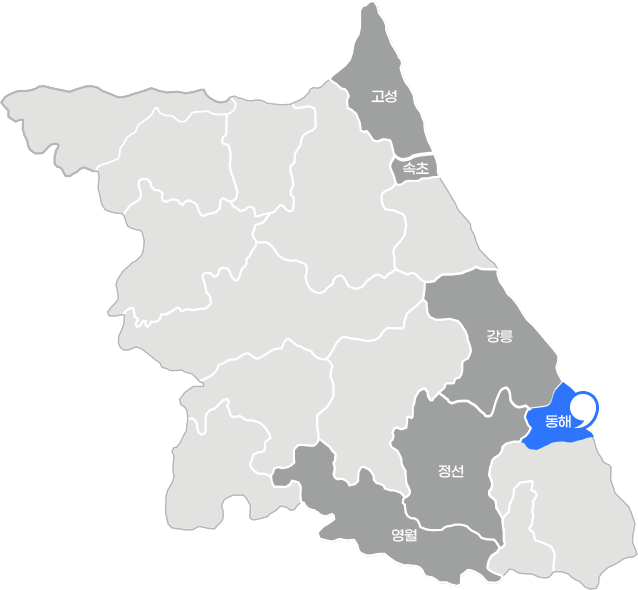
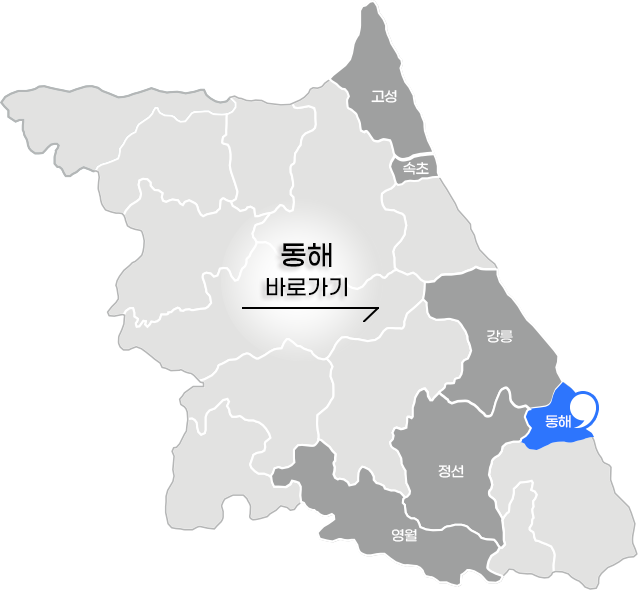
메인 콘텐츠 수정

Changed region(s): [[0.3871, 0.3966, 0.5956, 0.5492]]

diff --git a/worcation/css/sub.css b/worcation/css/sub.css
@@ -459,12 +459,27 @@ a.skinBtnBo i.v6{background-position-x: -765px;}
 .space-fun .space-list .text-bx{padding:15px 0 25px;}
 .space-fun .space-list .text-bx h5{font-size:22px;font-weight:400;}
 .space-fun .space-list .text-bx h5 strong{font-weight:700;}
-.space-fun .space-list .text-bx p{padding:7px 0 0 15px;}
-.space-fun .space-list .text-bx span{display:block;font-weight:300;font-size:17px;padding-top:7px;line-height:1.3;}
+.space-fun .space-list .text-bx p{padding:7px 0 0 15px;font-weight: 300;font-size: 17px;padding-top: 7px;line-height: 1.6;}
+.space-fun .space-list .text-bx span{display:block;}
+
+.space-fun .space-list.v2{padding-bottom:20px;}
+.space-fun .space-list.v2 > div{padding:35px 0 65px;}
+.space-fun .space-list .bg-bx{position:relative;background:#fff;border:1px solid #bfbfbf;padding:25px;display:flex;}
+.space-fun .space-list .bg-bx .img-bx{width:378px;}
+.space-fun .space-list .bg-bx .img-bx img{display:block;width:100%;}
+.space-fun .space-list .bg-bx .text-bx{display:flex;flex-direction:column;justify-content:space-between;padding:0 25px 0 0;flex:1;}
+.space-fun .space-list .bg-bx h5{font-size:24px;font-weight:300;line-height:1.2;word-break:keep-all;}
+.space-fun .space-list .bg-bx h5 strong{display:block;font-weight:700;font-size:30px;margin-top:5px;}
+.space-fun .space-list .bg-bx .text-bx p{padding:0;word-break:keep-all;}
+
 .space-fun .fun-bx{margin-top:23px;display:flex;}
 .space-fun .fun-bx > a{overflow:hidden;width:calc((100% - 1340px) / 3);transition:all .35s .05s ease-out;}
 .space-fun .fun-bx > a.active{width:1340px;pointer-events:none;}
-.space-fun .fun-bx > a img{display:block;}
+.space-fun .fun-bx > a img{display:block;transition:all .2s;}
+.space-fun .fun-bx > a:hover img{filter:grayscale(1);}
+
+
+
 
 @media (max-width: 1599px){
   .program-bx .tit-bx h4{font-size:28px;}
@@ -495,12 +510,24 @@ a.skinBtnBo i.v6{background-position-x: -765px;}
   .space-fun .space-list > div + div{margin-left:30px;}
   .space-fun .space-list .text-bx{padding:12px 0 21px;}
   .space-fun .space-list .text-bx h5{font-size:18px;}
-  .space-fun .space-list .text-bx p{padding:5px 0 0 12px;font-size:15px;}
-  .space-fun .space-list .text-bx span{font-size:14px;padding-top:5px;}
+  .space-fun .space-list .text-bx p{padding:5px 0 0 12px;font-size:14px;}
+  .space-fun .space-list .text-bx span{padding-top:5px;}
   .space-fun .fun-bx{margin:17px -20px 0;}
   .space-fun .fun-bx > a{width:60px;}
   .space-fun .fun-bx > a.active{width:calc(100vw - 180px);}
   .space-fun .fun-bx > a img{max-width:100vw}
+
+  .space-fun .space-list.v2{padding-bottom:10px;}
+  .space-fun .space-list.v2 > div{padding:15px 0 40px;}
+  .space-fun .space-list .bg-bx{padding:15px;flex-direction:column;height:100%;}
+  .space-fun .space-list .bg-bx .img-bx{width:100%;height:180px;}
+  .space-fun .space-list .bg-bx .img-bx img{height:100%;object-fit:cover;}
+  .space-fun .space-list .bg-bx .text-bx{padding:0px 0 15px 0;justify-content:flex-start;}
+  .space-fun .space-list .bg-bx h5{font-size:18px;}
+  .space-fun .space-list .bg-bx h5 strong{font-size:22px;}
+  .space-fun .space-list .bg-bx .text-bx p{padding:0;word-break:keep-all;margin-top:7px;}
+
+  .space-fun .fun-bx > a:hover img{filter:grayscale(0);}
 
 }
 
@@ -532,12 +559,19 @@ a.skinBtnBo i.v6{background-position-x: -765px;}
   .space-fun .space-list > div + div{margin-left:15px;}
   .space-fun .space-list .text-bx{padding:12px 0 21px;}
   .space-fun .space-list .text-bx h5{font-size:15px;}
-  .space-fun .space-list .text-bx p{padding:3px 0 0 10px;font-size:14px;}
-  .space-fun .space-list .text-bx span{font-size:13px;padding-top:4px;}
+  .space-fun .space-list .text-bx p{padding:3px 0 0 10px;font-size:13px;}
+  .space-fun .space-list .text-bx span{padding-top:3px;}
   .space-fun .fun-bx{margin:15px -20px 0;}
   .space-fun .fun-bx > a{width:55px;}
   .space-fun .fun-bx > a.active{width:calc(100vw - 165px);}
   .space-fun .fun-bx > a img{max-width:100vw;min-width:1000px;}
+
+  .space-fun .space-list.v2{padding-bottom:5px;}
+  .space-fun .space-list.v2 > div{padding:15px 0 30px;}
+  .space-fun .space-list .bg-bx .img-bx{height:160px;}
+  .space-fun .space-list .bg-bx .text-bx{padding:0px 0 13px 0;}
+  .space-fun .space-list .bg-bx h5{font-size:15px;}
+  .space-fun .space-list .bg-bx h5 strong{font-size:18px;}
 }
 
 @media (max-width: 716px){
@@ -568,12 +602,18 @@ a.skinBtnBo i.v6{background-position-x: -765px;}
   .space-fun .space-list > div + div{margin:15px 0 0;}
   .space-fun .space-list .text-bx{padding:12px 0 21px;}
   .space-fun .space-list .text-bx h5{font-size:15px;}
-  .space-fun .space-list .text-bx p{padding:3px 0 0 5px;font-size:13.5px;}
-  .space-fun .space-list .text-bx span{font-size:13px;}
+  .space-fun .space-list .text-bx p{padding:3px 0 0 5px;font-size:13px;}
   .space-fun .fun-bx{margin:15px -15px 0;flex-direction:column;}
   .space-fun .fun-bx > a{width:100%;height:50px;transition-duration:.25s;}
   .space-fun .fun-bx > a + a{box-shadow:-3px 0 6px 0 rgba(0,0,0,.35);}
   .space-fun .fun-bx > a.active{width:100%;height:234px}
   .space-fun .fun-bx > a img{width:740px;min-width:740px;}
+
+  .space-fun .space-list.v2{padding-bottom:5px;}
+  .space-fun .space-list.v2 > div{padding:5px 0 20px;}
+  .space-fun .space-list .bg-bx .img-bx{height:135px;}
+  .space-fun .space-list .bg-bx .text-bx{padding:0px 0 12px 0;}
+  .space-fun .space-list .bg-bx h5{font-size:14px;}
+  .space-fun .space-list .bg-bx h5 strong{font-size:16px;}
 }
 

diff --git a/worcation/content/2_워케이션프로그램.html b/worcation/content/2_워케이션프로그램.html
@@ -144,6 +144,41 @@
                 </div>
             </div>
         </div>
+        <div class="space-list v2">
+            <div>
+                <div class="bg-bx">
+                    <div class="text-bx">
+                        <h5>
+                            VVIP를 위한 맞춤 서비스 <strong>프라이빗 차량 서비스</strong> 
+                        </h5>
+                        <p>
+                            소수의 VVIP를 위한 서비스로 숙련된 지역 전문 안내자가 차량이 없어 개별 이동이 불가능한 고객 한 분 한 분을 전용 차량으로 목적지까지 모시는 서비스입니다.
+                        </p>
+                    </div>
+                    <div class="img-bx">
+                        <img src="https://picsum.photos/378/233?random=10" alt="">
+                    </div>
+                </div>
+            </div>
+            <div>
+                <div class="bg-bx">
+                    <div class="text-bx">
+                        <h5>
+                            강원도 향토음식 전문가 <strong>조용현 박사의 숲 속에서 문 여는 식당</strong> 
+                        </h5>
+                        <p>
+                            <span>- 메뉴타입 : Small Dishes by 영월 로컬푸드</span>
+                            <span>- 제공음식 : 강원도 향토 음식 + 음료 + 주류</span>
+                            <span>- 진행자 : 조용현 박사</span>
+                            <span>- 행사장소 : 영월관광센터 [3층, 야외옥상]</span>
+                        </p>
+                    </div>
+                    <div class="img-bx">
+                        <img src="https://picsum.photos/378/233?random=10" alt="">
+                    </div>
+                </div>
+            </div>
+        </div>
         <h4>
             <em>처음부터 끝까지 어느 곳을 가더라도 아름다운 </em>
             영월에서 노는 법!

diff --git a/worcation/css/index.css b/worcation/css/index.css
@@ -46,14 +46,15 @@
 #map h2 img{display:inline-block;max-width:100%;}
 #map{position:relative;z-index:39;padding-left:20px;}
 #map .map-bx{display:flex;align-items:flex-end;justify-content:space-between;}
-#map .img-bx{position:relative;width:638px}
-#map .img-bx img{display:none;width:100%;}
-#map .img-bx img.active{display:block;}
-#map .btn-bx{padding: 0px 20px 0 40px;flex:1;}
+#map .img-bx{position:relative;width:638px;order: 2;}
+#map .img-bx a{display:none;width:100%;}
+#map .img-bx img{width:100%;display:block;}
+#map .img-bx a.active{display:block;}
+#map .btn-bx{padding: 0px 40px 0 22px;flex:1;}
 #map .btn-bx a{display:block;float:left;margin:45px 45px 0 0;width:calc((100% - 135px) / 3)}
 #map .btn-bx a.active{pointer-events:none;}
 #map .btn-bx a img,
-#map .btn-bx a.active img.on-img{display:block;width:100%;transition:all .2s;}
+#map .btn-bx a.active img.on-img{display:block;width:100%;transition:all .2s;;}
 #map .btn-bx a img.on-img,
 #map .btn-bx a.active img{display:none;width:100%;}
 #map .btn-bx a:hover img{filter:grayscale(1);}
@@ -65,7 +66,7 @@
   #map h2 img{width:627px;}
   #map{padding-left:0px;}
   #map .img-bx{position:relative;width:568px;max-width:50%;}
-  #map .btn-bx{padding: 0px 0px 0 30px;}
+  #map .btn-bx{padding: 0px 30px 0 0px;}
   #map .btn-bx a{margin:15px 15px 0 0;width: calc((100% - 45px) / 3);}
   #map .btn-bx a:hover img{filter:grayscale(0);}
 }
@@ -89,7 +90,7 @@
   #map .map-bx{flex-direction:column;align-items:center;}
   #map h2{margin-top:35px;}
   #map .img-bx{width:100%;max-width:450px;}
-  #map .btn-bx{margin:15px auto 0;}
+  #map .btn-bx{margin: 44px auto 20px;}
   #map .btn-bx a{margin:5px 5px 0 0;width:calc((100% - 10px) / 3)}
 }
 

diff --git a/worcation/index.html b/worcation/index.html
@@ -56,12 +56,24 @@
 				<div class="inner">
 					<div class="map-bx">
 						<div class="img-bx">
-							<img src="/page/worcation/images/main/map-go.png" alt="고성" class="active">
-							<img src="/page/worcation/images/main/map-sokcho.png" alt="속초">
-							<img src="/page/worcation/images/main/map-gangneung.png" alt="강릉">
-							<img src="/page/worcation/images/main/map-yeongwol.png" alt="영월">
-							<img src="/page/worcation/images/main/map-jeongseon.png" alt="정선">
-							<img src="/page/worcation/images/main/map-donghae.png" alt="동해">
+							<a href="#"  class="active">
+								<img src="/page/worcation/images/main/map-go.png" alt="고성">
+							</a>
+							<a href="">
+								<img src="/page/worcation/images/main/map-sokcho.png" alt="속초">
+							</a>
+							<a href="">
+								<img src="/page/worcation/images/main/map-gangneung.png" alt="강릉">
+							</a>
+							<a href="">
+								<img src="/page/worcation/images/main/map-yeongwol.png" alt="영월">
+							</a>
+							<a href="">
+								<img src="/page/worcation/images/main/map-jeongseon.png" alt="정선">
+							</a>
+							<a href="">
+								<img src="/page/worcation/images/main/map-donghae.png" alt="동해">
+							</a>
 						</div>
 						<div class="btn-bx clearfix">
 							<a href="#" role="button" class="active">

diff --git a/worcation/js/index.js b/worcation/js/index.js
@@ -32,8 +32,8 @@ ObjDoc.on({
     'click': function(e) { 
         e.preventDefault();
         var Idx = $(this).index();
-        $('#map .btn-bx a, #map .img-bx img').removeClass('active');
-        $('#map .img-bx img').eq(Idx).addClass('active');
+        $('#map .btn-bx a, #map .img-bx a').removeClass('active');
+        $('#map .img-bx a').eq(Idx).addClass('active');
         $(this).addClass('active');
     }
 }, '#map .btn-bx a');
